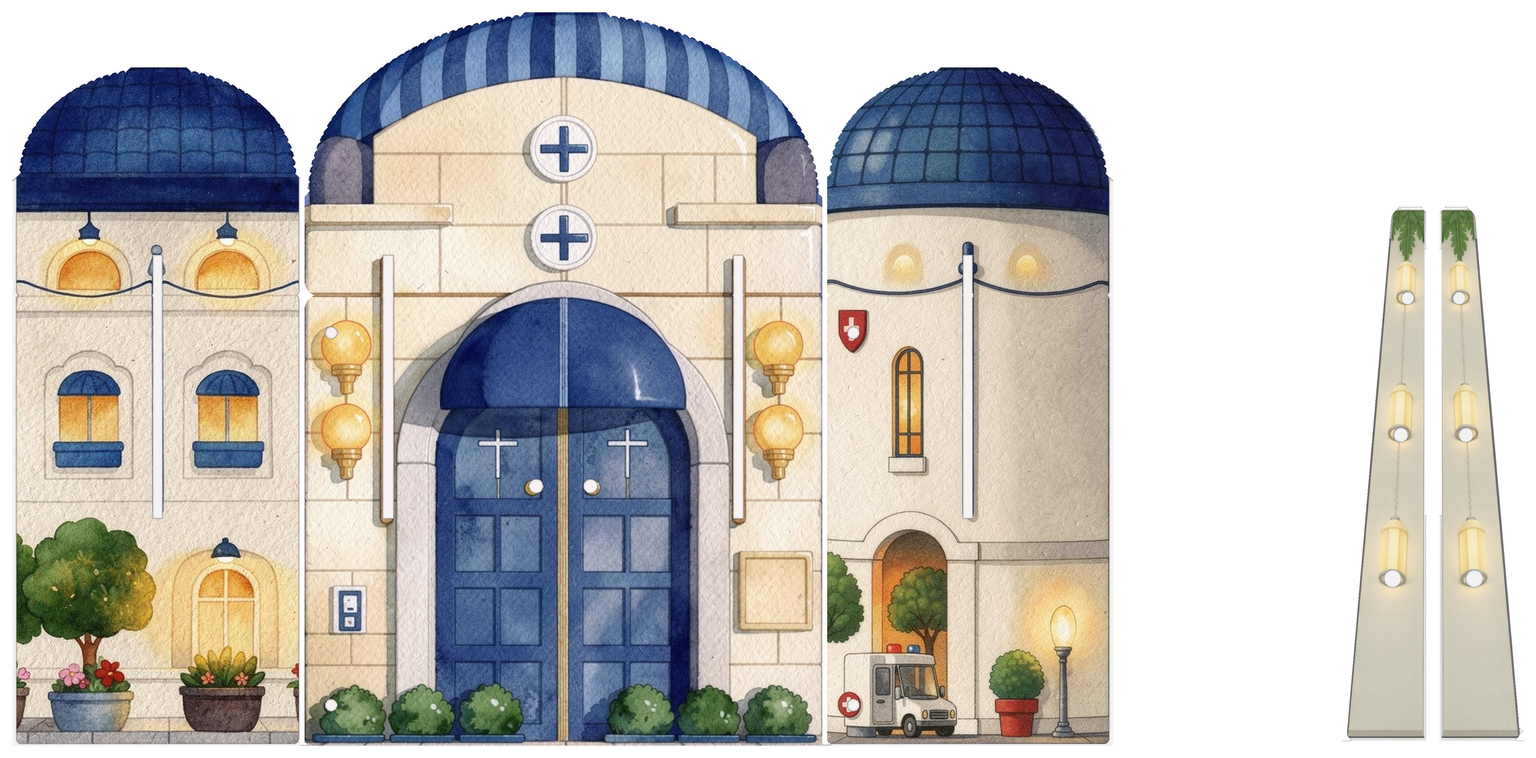
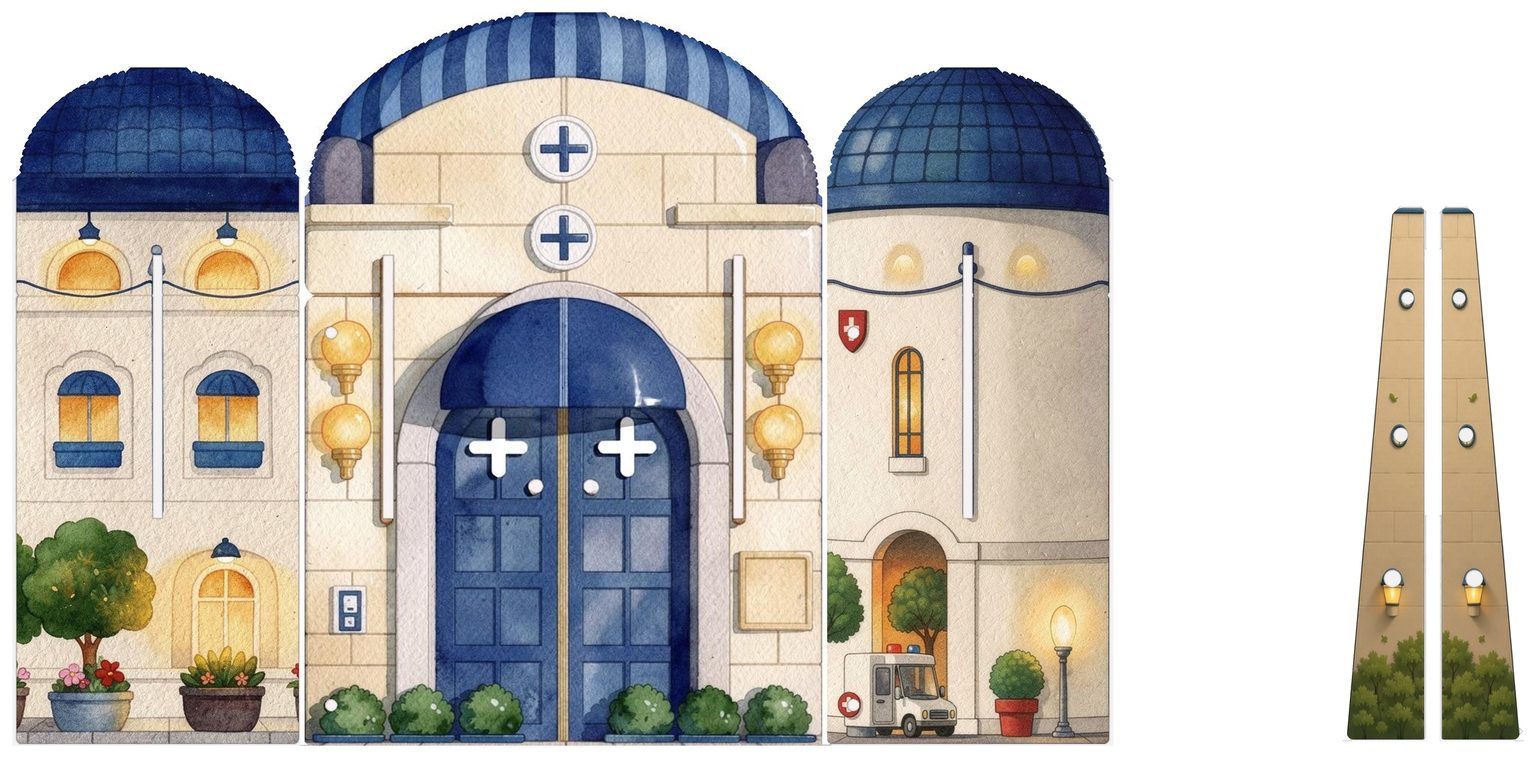
r13 polish: door-leaf crosses fixed (Flux Fill masked-inpaint) + building-matched stabilizers
Door: equal-arm medical crosses now clean and watercolor-integrated — hand
compositing seamed on the gradient glass (dither/halo/wrong-panel-lines);
masked-inpaint on a tight 2-cross mask was the working tool. Stabilizers
regenerated as stone pilaster strips (round windows, wall lantern, blue cap)
to match the new independent-building look; registered into both masks at
IoU 0.9873. Screen preview + FEEDBACK updated.

Changed region(s): [[0.8748, 0.2777, 0.9998, 0.9874], [0.3749, 0.5246, 0.4374, 0.648], [0.2812, 0.5246, 0.3437, 0.6788]]

diff --git a/REVIEW/marriott-hospital/FEEDBACK.md b/REVIEW/marriott-hospital/FEEDBACK.md
@@ -23,17 +23,22 @@ Look at (in this folder):
 5. `r13-overlay-board.jpg` — all 6 round-1 candidates with cut+forbidden overlays.
 6. `*_forb.png` — forbidden-lane overlays per final.
 
-KNOWN ISSUE (one, honest): the two crosses painted on the door leaves are thin
-crucifix-style, not equal-arm medical crosses. Three engine attempts failed to
-reshape/remove them (they sit under the glass-reflection wash — engines heal them
-back; one attempt erased the WRONG cross and was reverted). Options: (a) accept,
-(b) treat door emblems as a VECTOR layer in the .ai (like signage text), (c) one
-more targeted round. Your call.
+FIXED since first r13 post: door-leaf crosses are now clean equal-arm medical
+crosses (was thin crucifix). Hand-compositing seamed on the gradient glass; the
+working fix was Flux Fill masked-inpaint on a tight two-cross mask — integrates
+into the watercolor with no halo/seam. `r13_door_final.png` is the fixed door.
+
+ALSO NEW: stabilizers now MATCH the building look — narrow cream-stone pilaster
+strips with round windows, a wall lantern, blue tiled cap, hedges (was r12's
+hanging-lantern strips). `r13_stab1/2_final.png`. r12 lantern strips still on
+file if you prefer those.
 
 ## Questions
-- r13 vs r12 direction: door detail level right now, or push denser?
+- r13 door detail level right now, or push denser?
 - Narrows as buildings: does this match the cap-juluca/space/princess intent?
-- Stabilizers still the r12 lantern strips — keep, or match them to the new building look?
+- Stabilizers: building-pilaster (r13) or lantern-strip (r12)?
+- Door emblems: the two leaf crosses are painted — keep painted, or make them a
+  VECTOR layer in the .ai like signage (crisper, editable)?
 
 ---
 
